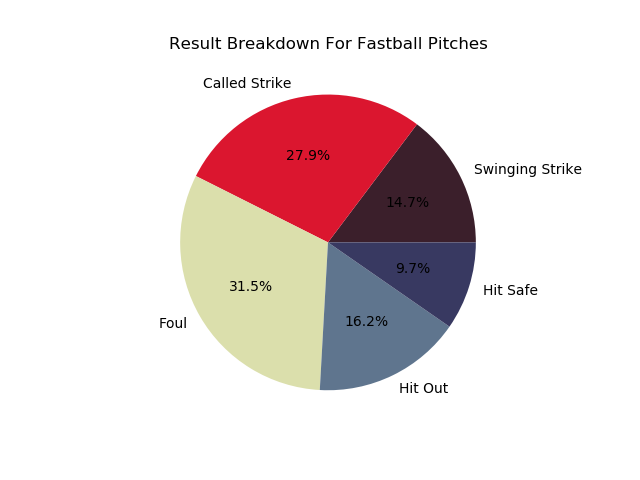
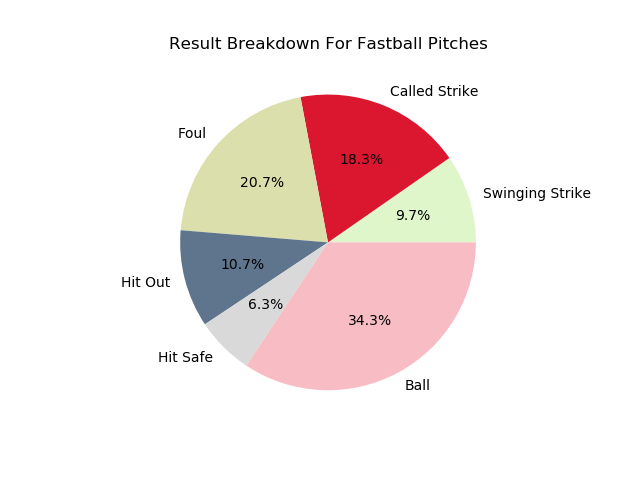
figures

Changed region(s): [[0.1875, 0.1562, 0.9375, 0.8125], [0.625, 0.1562, 0.75, 0.2188]]

diff --git a/likliest_pitch/likliest_pitch.py b/likliest_pitch/likliest_pitch.py
@@ -11,9 +11,9 @@ import matplotlib.pyplot as plt #to create cool graffs
 with open('../data/pitches.csv', mode = 'r') as csv_file:
     pitches = csv.DictReader(csv_file)
 
-    #swinging strike, called strike, foul, hit out, hit on
-    data_fastball = {'count': 0, 'STW': 0, 'C': 0, 'F': 0, 'X': 0, 'DE': 0}
-    data_offspeed = {'count': 0, 'STW': 0, 'C': 0, 'F': 0, 'X': 0, 'DE': 0}
+    #swinging strike, called strike, foul, hit out, hit on, ball
+    data_fastball = {'count': 0, 'STW': 0, 'C': 0, 'F': 0, 'X': 0, 'DE': 0, 'B': 0}
+    data_offspeed = {'count': 0, 'STW': 0, 'C': 0, 'F': 0, 'X': 0, 'DE': 0, 'B': 0}
 
     for row in pitches:
         #fastballs
@@ -35,6 +35,9 @@ with open('../data/pitches.csv', mode = 'r') as csv_file:
             if (row['Call'] == 'D') | (row['Call'] == 'E'): # hit in play
                 data_fastball['DE'] += 1
 
+            if (row['Call'] == 'B'): # ball
+                data_fastball['B'] += 1
+
         #offspeeds
         elif row['Is Fastball'] == 'False':
             data_offspeed['count'] += 1
@@ -54,16 +57,19 @@ with open('../data/pitches.csv', mode = 'r') as csv_file:
             if (row['Call'] == 'D') | (row['Call'] == 'E'):
                 data_offspeed['DE'] += 1
 
+            if (row['Call'] == 'B'): # ball
+                data_offspeed['B'] += 1
+
 #This part analyzes the data into a pie chart
 
-labels = ['Swinging Strike', 'Called Strike', 'Foul', 'Hit Out', 'Hit Safe']
+labels = ['Swinging Strike', 'Called Strike', 'Foul', 'Hit Out', 'Hit Safe', 'Ball']
 labels_distribution = ['Fastballs', 'Offspeed']
 
-sizes_fastball = [data_fastball['STW'], data_fastball['C'], data_fastball['F'], data_fastball['X'], data_fastball['DE']]
-sizes_offspeed = [data_offspeed['STW'], data_offspeed['C'], data_offspeed['F'], data_offspeed['X'], data_offspeed['DE']]
+sizes_fastball = [data_fastball['STW'], data_fastball['C'], data_fastball['F'], data_fastball['X'], data_fastball['DE'], data_fastball['B']]
+sizes_offspeed = [data_offspeed['STW'], data_offspeed['C'], data_offspeed['F'], data_offspeed['X'], data_offspeed['DE'], data_offspeed['B']]
 sizes_distribution = [data_fastball['count'], data_offspeed['count']]
 
-colors = ['#3B1F2B', '#DB162F', '#DBDFAC', '#5F758E', '#383961']
+colors = ['#DEF6CA', '#DB162F', '#DBDFAC', '#5F758E', '#D9D9D9', '#F8BDC4']
 colors_distribution = ['#DBDFAC', '#5F758E']
 
 # fastballs figures
